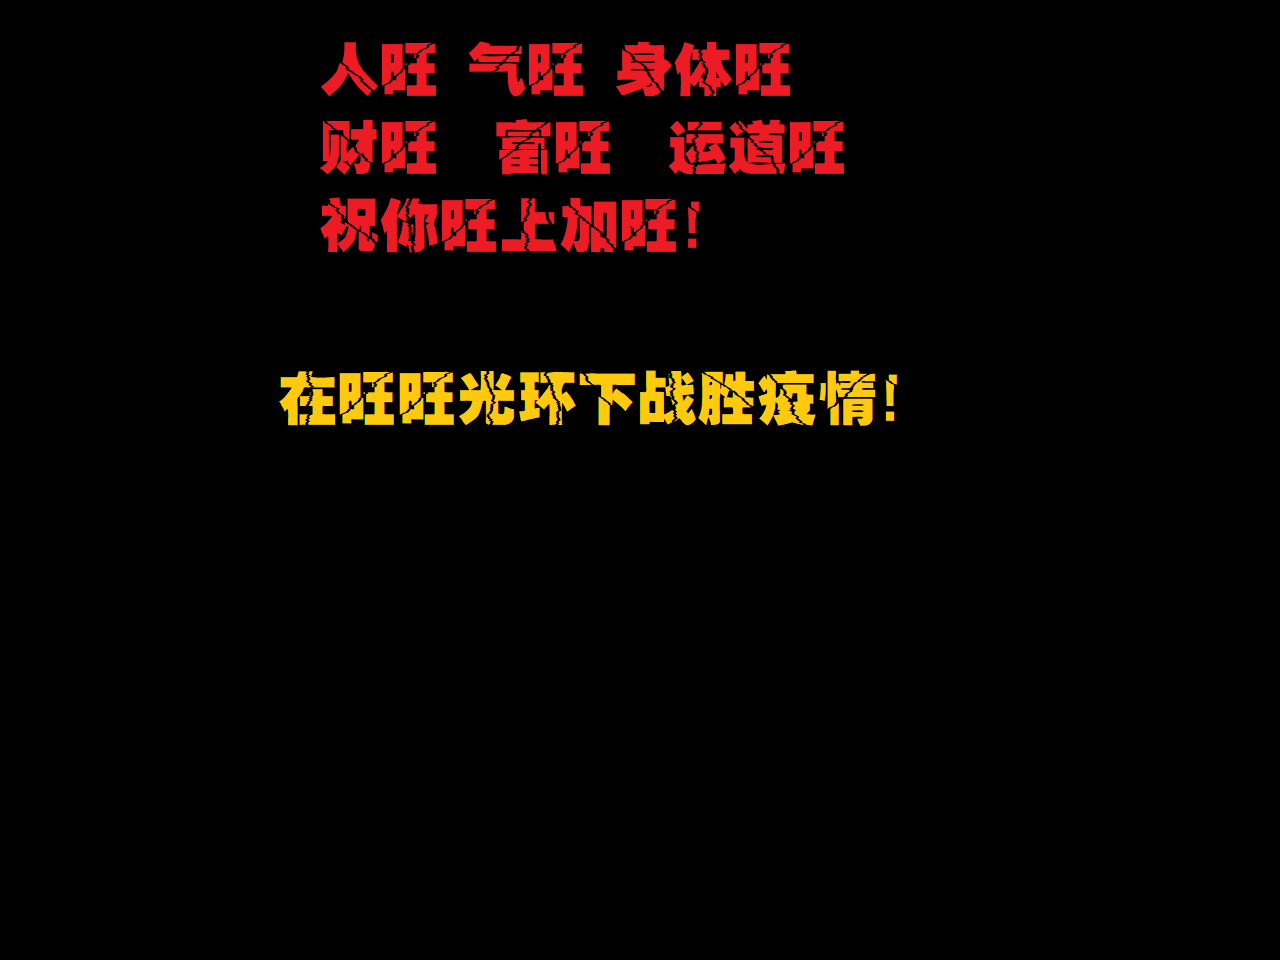
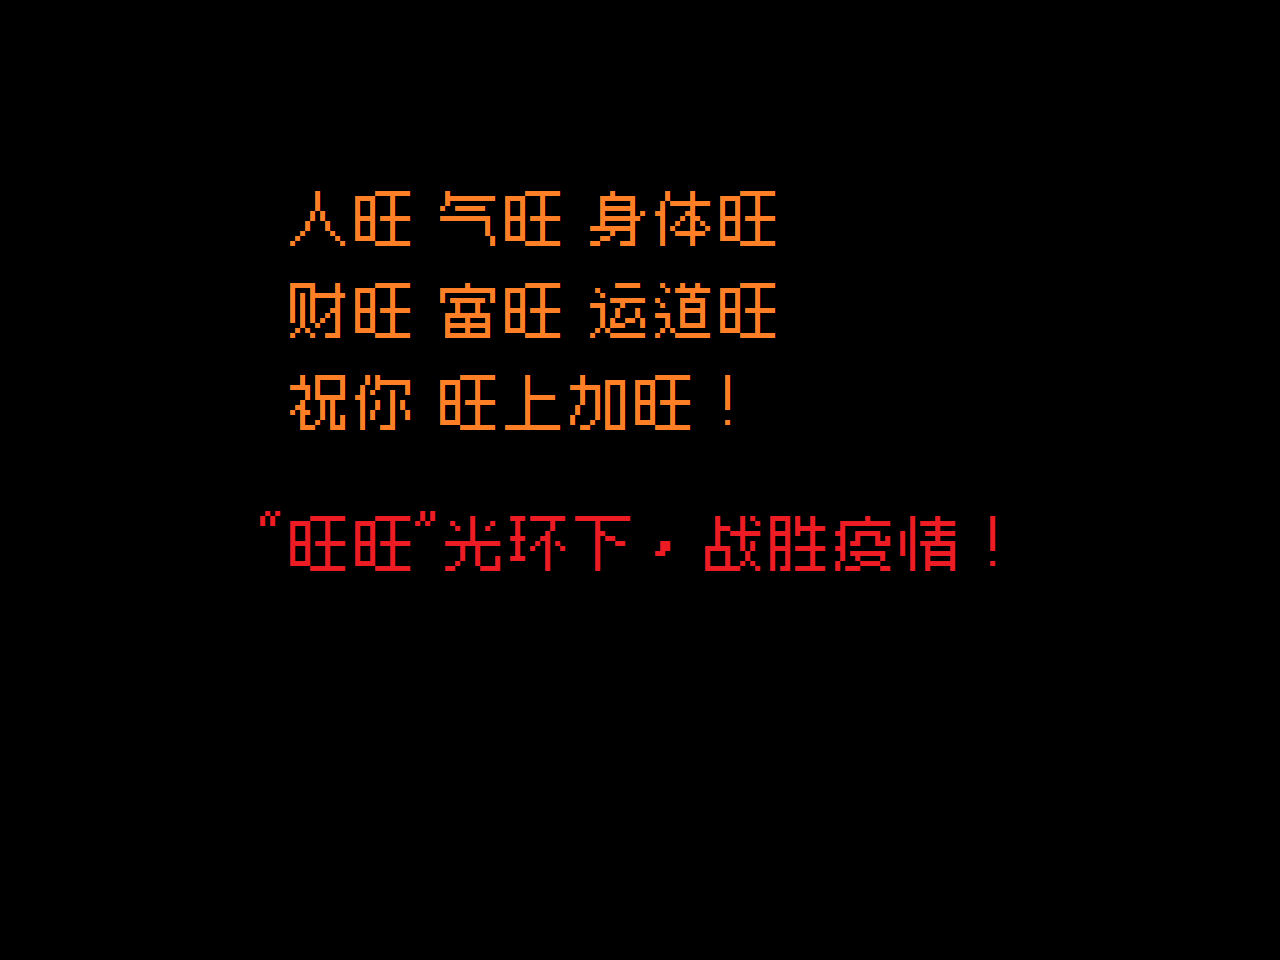
修改旺旺结局字体

Changed region(s): [[0.2188, 0.0312, 0.7188, 0.4688], [0.1875, 0.5312, 0.5, 0.5938], [0.5, 0.5312, 0.7812, 0.5938]]

diff --git a/source/eventlist.py b/source/eventlist.py
@@ -11,7 +11,7 @@ class EventList:
             self.resulttext = resulttext
 
     #事件总数，每次加事件的时候记得改
-    event_num = 15
+    event_num = 16
     
     evelist = []
     #属性增减 饥饿值 口渴值 san值 智商 清洁值 时间(单位15min) (单个事件的时间不要超过37)
